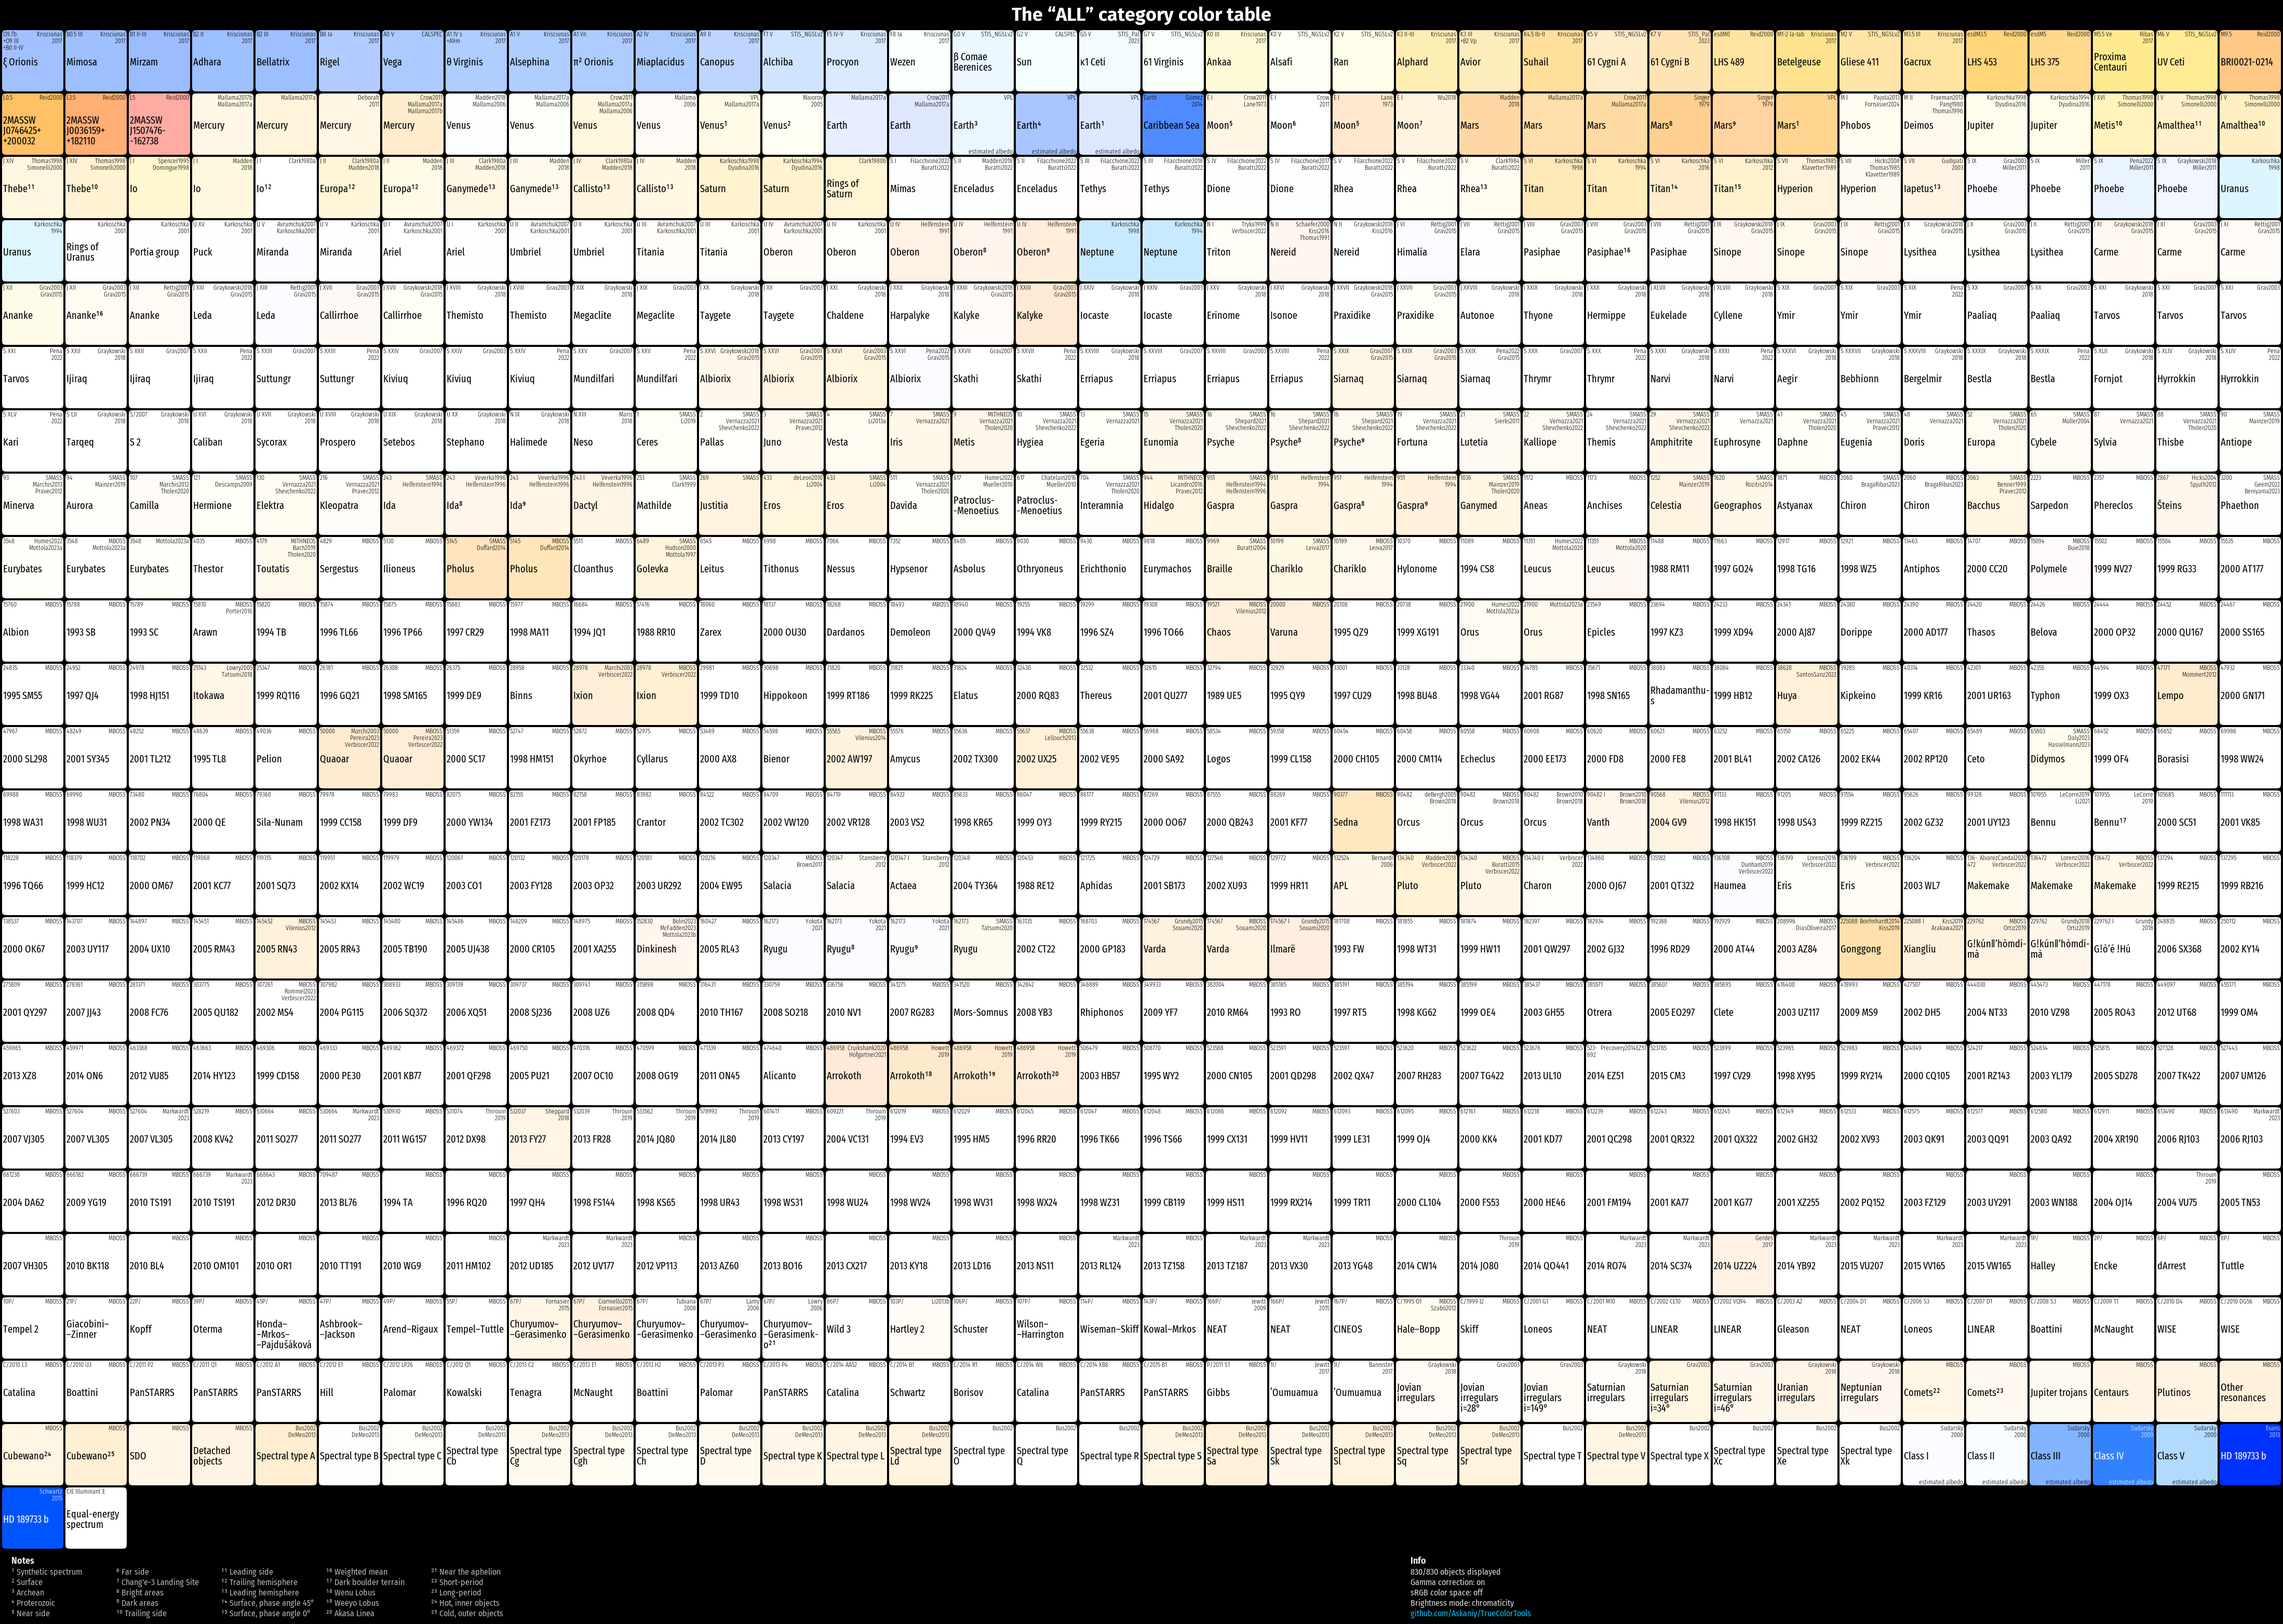
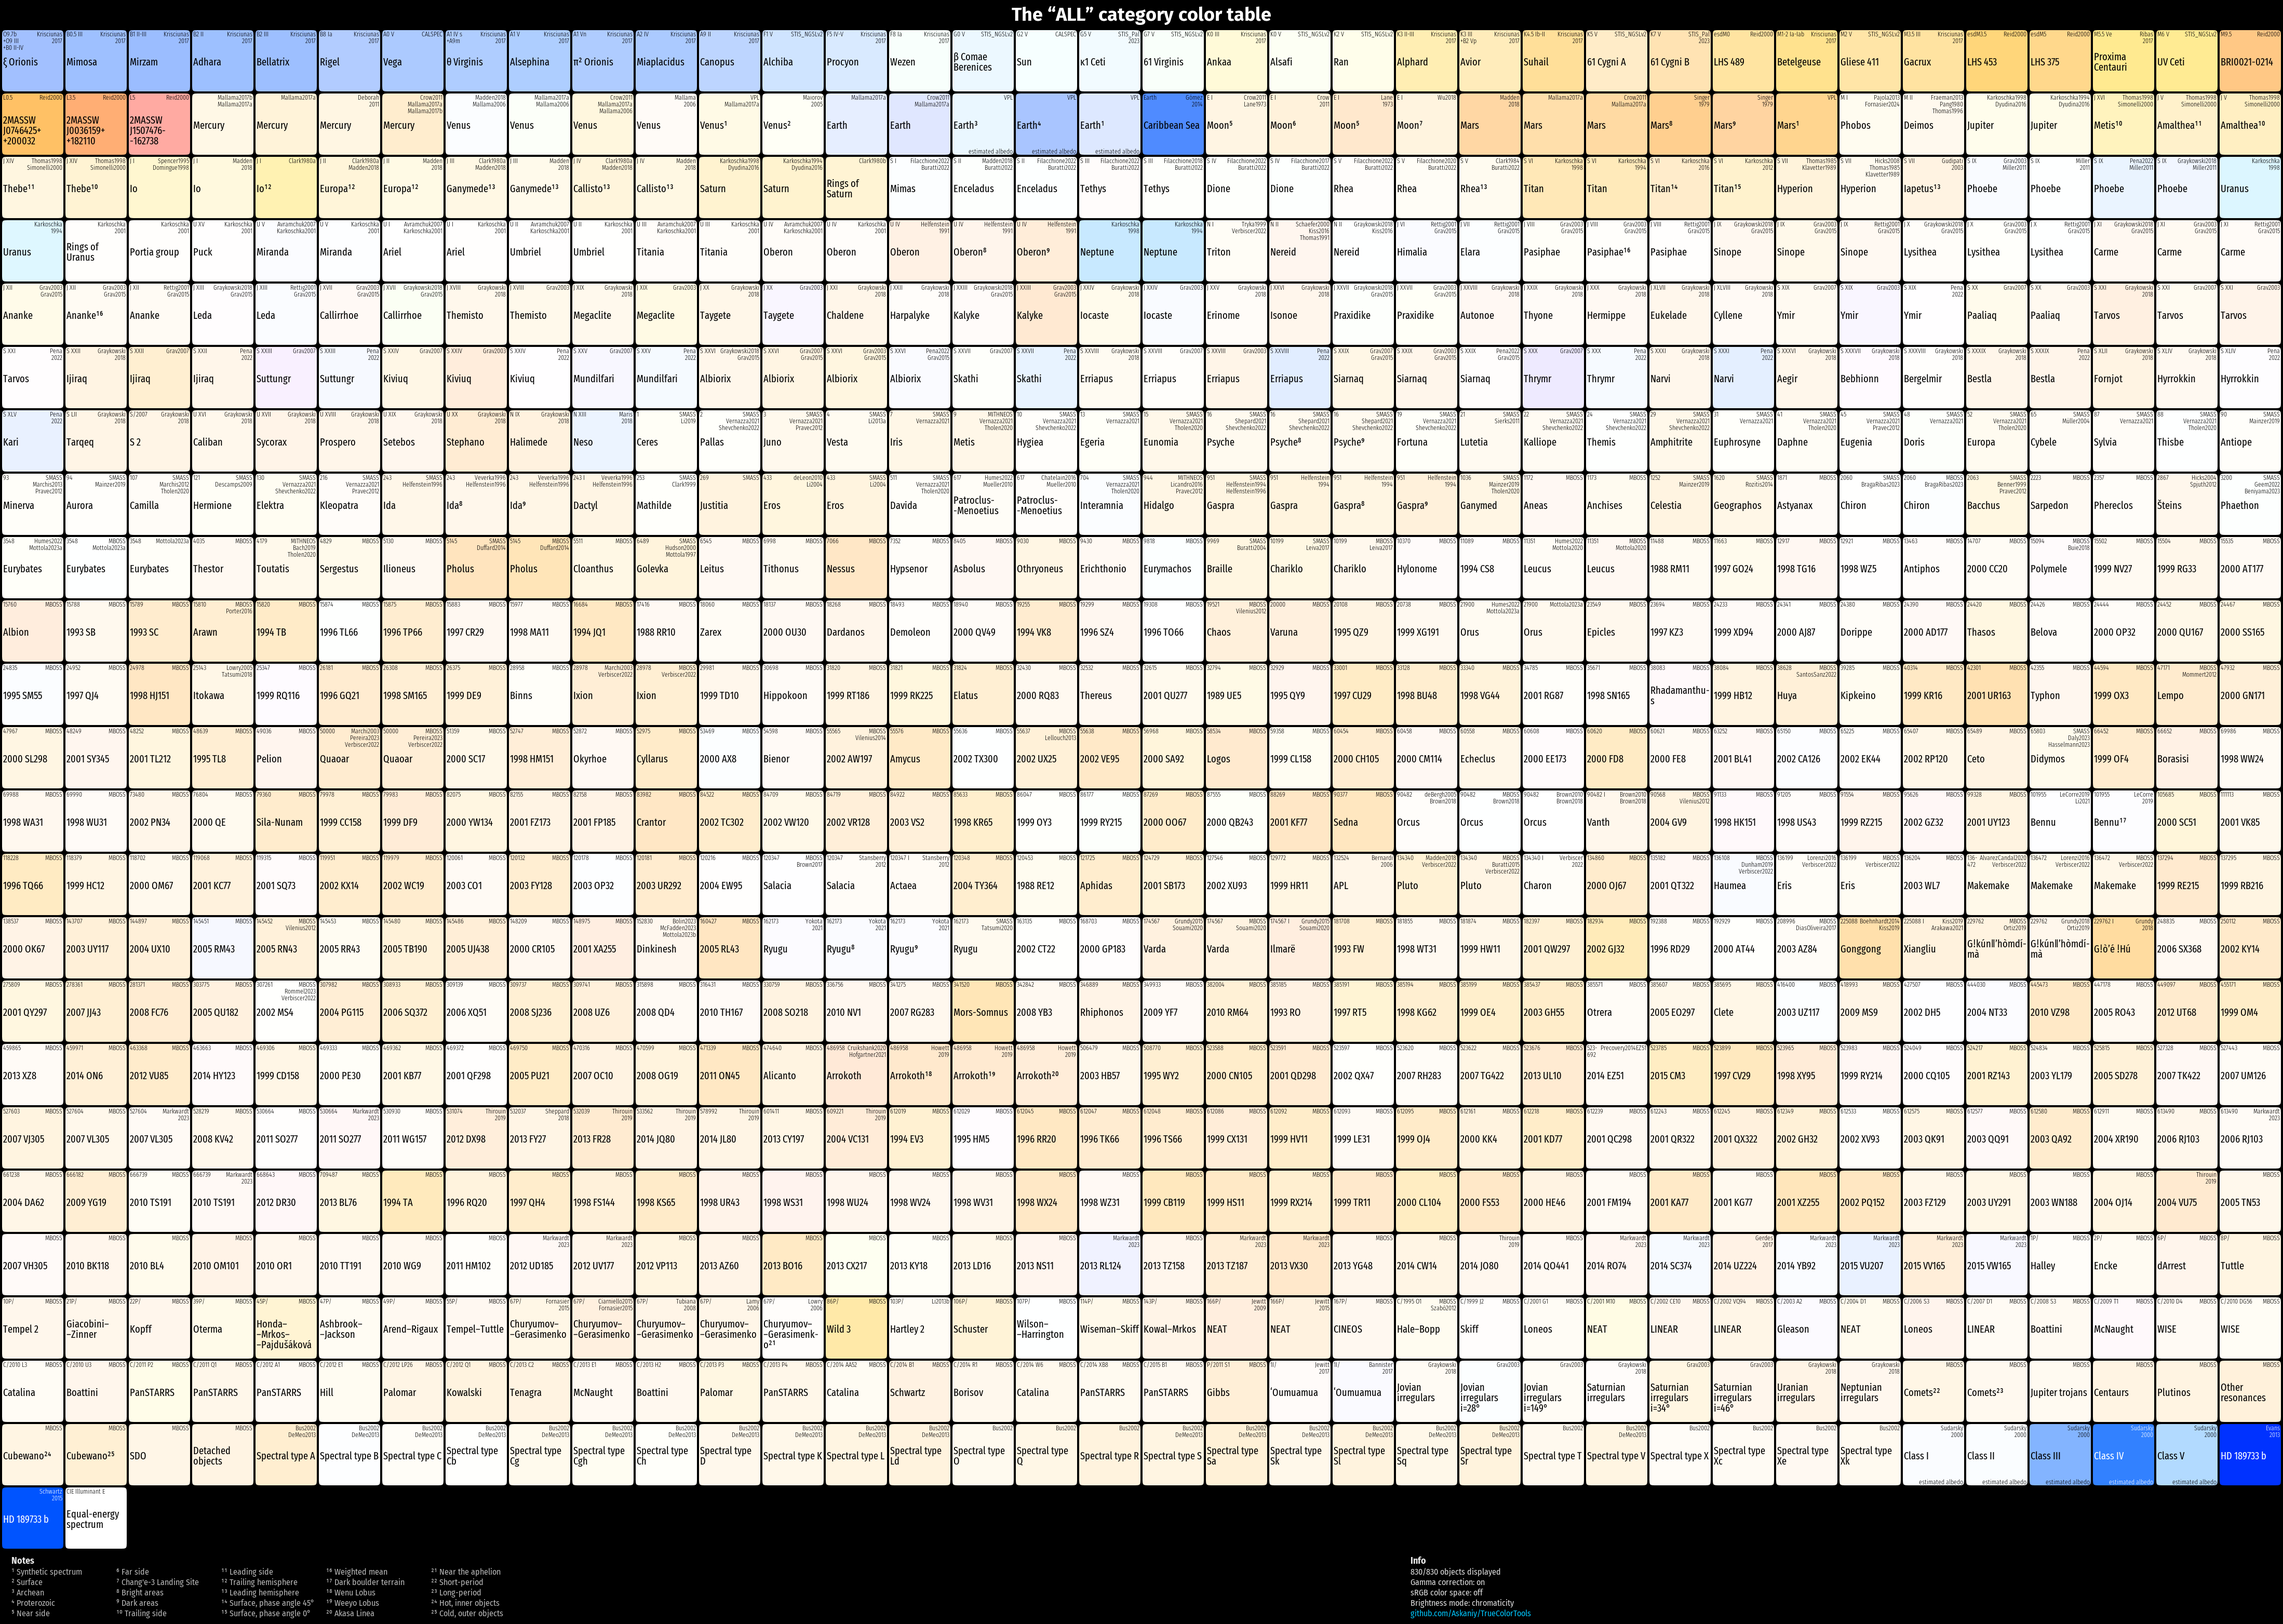
Brightness mode bug fix

diff --git a/src/core.py b/src/core.py
@@ -507,7 +507,7 @@ class Spectrum(_SpectralObject):
     @staticmethod
     def stub(name=None):
         """ Initializes an object in case of the data problems """
-        return Spectrum((555,), np.ones(1), name=name)
+        return Spectrum((555,), np.zeros(1), name=name)
     
     @staticmethod
     @lru_cache(maxsize=32)
@@ -713,7 +713,7 @@ class FilterSystem(_SpectralObject):
     @staticmethod
     def stub(name=None):
         """ Initializes an object in case of the data problems """
-        return FilterSystem((555,), np.ones((1, 1)), name=name, names=(None))
+        return FilterSystem((555,), np.zeros((1, 1)), name=name, names=(None))
     
     @staticmethod
     def from_list(filters: Sequence[str|Spectrum], name: str|ObjectName = None):
@@ -879,7 +879,7 @@ class Photospectrum(_PhotospectralObject):
     @staticmethod
     def stub(name=None):
         """ Initializes an object in case of the data problems """
-        return Photospectrum(FilterSystem.from_list(('Generic_Bessell.B', 'Generic_Bessell.V')), np.ones(2), name=name)
+        return Photospectrum(FilterSystem.from_list(('Generic_Bessell.B', 'Generic_Bessell.V')), np.zeros(2), name=name)
 
 
 
@@ -948,7 +948,7 @@ class PhotospectralCube(_PhotospectralObject, _Cube):
     @staticmethod
     def stub(name=None):
         """ Initializes an object in case of the data problems """
-        return PhotospectralCube(FilterSystem.from_list(('Generic_Bessell.B', 'Generic_Bessell.V')), np.ones((2, 1, 1)), name=name)
+        return PhotospectralCube(FilterSystem.from_list(('Generic_Bessell.B', 'Generic_Bessell.V')), np.zeros((2, 1, 1)), name=name)
 
 
 
@@ -978,15 +978,9 @@ class NonReflectiveBody:
         self.tags = tags
         self.spectrum = spectrum
     
-    def get_spectrum(self, mode: str):
-        """
-        Returns the spectrum as the first argument, and the `estimated=False` bool status as the second one.
-        Albedo not determined for NonReflectiveBody, so it can't be "estimated", but we need output compatibility with ReflectiveBody.
-        """
-        if 'star' in self.tags:
-            return self.spectrum, False # means it's an emitter and we need to render it
-        else:
-            return Spectrum.stub(self.name), False # means we don't need to render it
+    def get_spectrum(self, *args, **kwargs):
+        """ Returns the spectrum as the first argument, and the `estimated=False` bool status as the second one """
+        return self.spectrum, False
 
 
 class ReflectiveBody:

diff --git a/src/main.py b/src/main.py
@@ -233,13 +233,18 @@ def launch_window(lang: str):
                     # Spectral data import and processing
                     T1_body = database_parser(T1_obj_name, objectsDB[T1_obj_name])
                     T1_maximize_br = values['-brMax-'] or isinstance(T1_body, NonReflectiveBody)
-
-                    # Setting brightness mode
-                    T1_spectrum, T1_estimated = T1_body.get_spectrum('geometric' if values['-brMode1-'] else 'spherical')
-                    if T1_estimated:
-                        window['T1_albedo_note'].update(tr.gui_estimated[lang])
+                    
+                    if not values['-brMax-'] and isinstance(T1_body, NonReflectiveBody) and 'star' not in T1_body.tags:
+                        # Black circle is shown for objects with no albedo data in the albedo mode
+                        T1_spectrum = Spectrum.stub()
+                        window['T1_albedo_note'].update(tr.gui_no_albedo[lang])
                     else:
-                        window['T1_albedo_note'].update('')
+                        # Setting brightness mode
+                        T1_spectrum, T1_estimated = T1_body.get_spectrum('geometric' if values['-brMode1-'] else 'spherical')
+                        if T1_estimated:
+                            window['T1_albedo_note'].update(tr.gui_estimated[lang])
+                        else:
+                            window['T1_albedo_note'].update('')
 
                     # Color calculation
                     T1_color = ColorPoint.from_spectral_data(T1_spectrum, T1_maximize_br, values['-srgb-'])

diff --git a/src/table_generator.py b/src/table_generator.py
@@ -115,8 +115,13 @@ def generate_table(objectsDB: dict, tag: str, brMax: bool, brGeom: bool, srgb: b
         body = database_parser(obj_name, objectsDB[obj_name])
         maximize_br = brMax or isinstance(body, NonReflectiveBody)
 
-        # Setting brightness mode
-        spectrum, estimated = body.get_spectrum('geometric' if brGeom else 'spherical')
+        if not brMax and isinstance(body, NonReflectiveBody) and 'star' not in body.tags:
+            # Black square is shown for objects with no albedo data in the albedo mode
+            spectrum = Spectrum.stub()
+            estimated = False
+        else:
+            # Setting brightness mode
+            spectrum, estimated = body.get_spectrum('geometric' if brGeom else 'spherical')
         is_estimated[n] = estimated
         
         # Color calculation

diff --git a/src/strings.py b/src/strings.py
@@ -158,9 +158,14 @@ gui_tags = {
     'ru': 'Категория',
     'de': 'Kategorie'
 }
+gui_no_albedo = {
+    'en': 'Note: No albedo data.',
+    'ru': 'Прим.: Нет данных об альбедо.',
+    'de': 'Hinweis: Keine Albedodaten.'
+}
 gui_estimated = {
     'en': 'Note: The albedo is estimated.',
-    'ru': 'Прим.: Данное альбедо — теор. оценка',
+    'ru': 'Прим.: Данное альбедо — теор. оценка.',
     'de': 'Hinweis: Die Albedo ist eine Schätzung.'
 }
 gui_rgb = {
